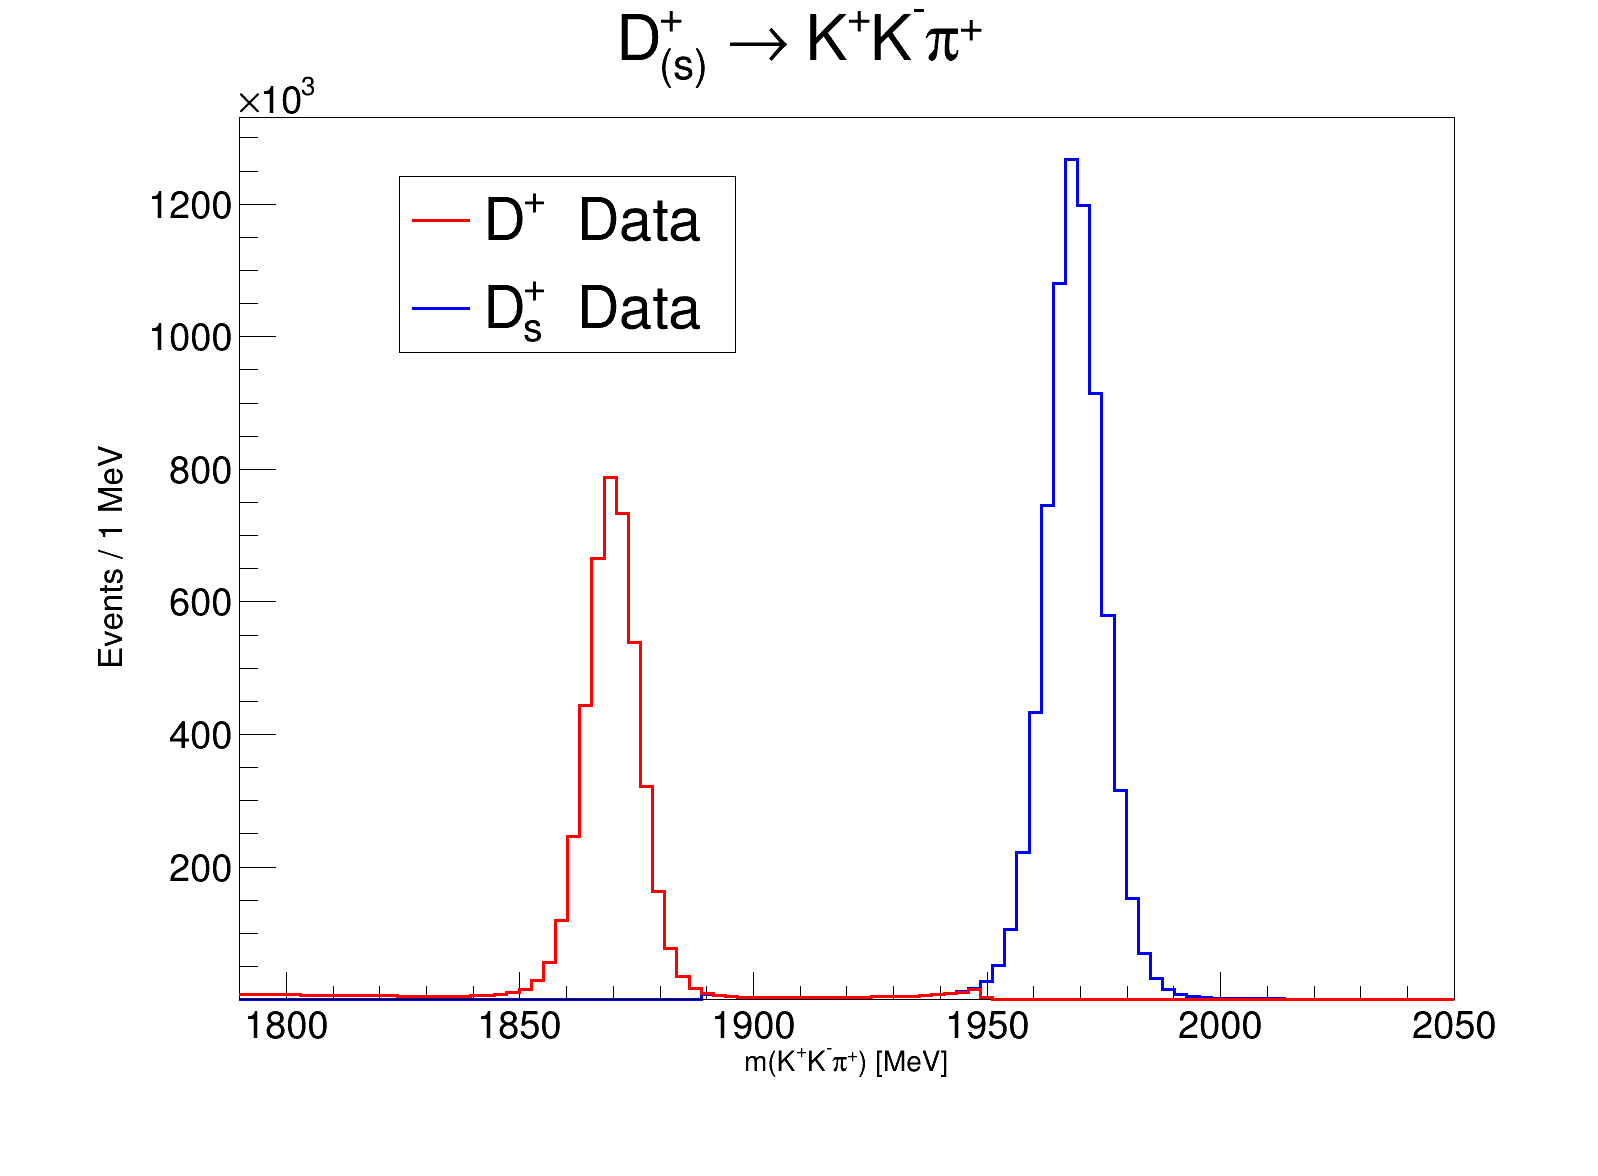
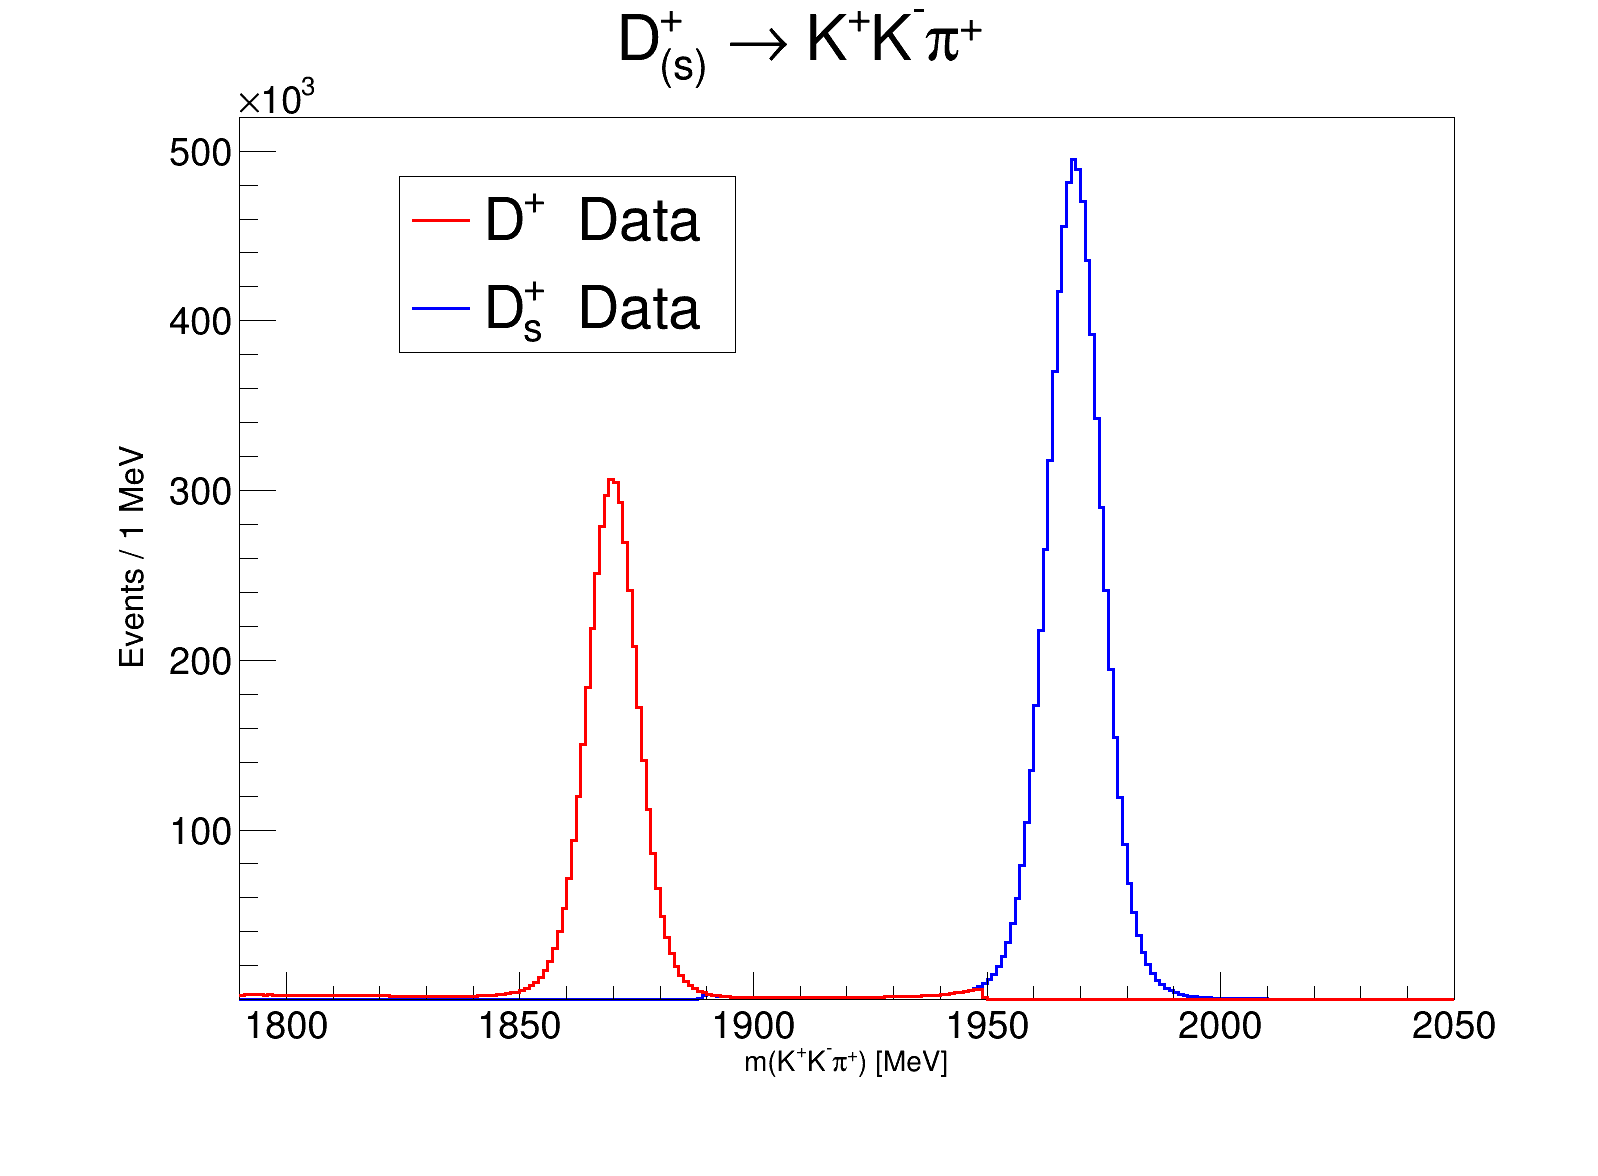
overlap region start

diff --git a/extra_info_rdf.C b/extra_info_rdf.C
@@ -8,11 +8,37 @@ using namespace ROOT;
 
 EnableImplicitMT(); //run in parallel!
 
+const double phi_pm = 10;//12 for regular cut
+const double phiupperbound = (1019.455+phi_pm)*(1019.455+phi_pm)/1000000; 
+const double philowerbound = (1019.455-phi_pm)*(1019.455-phi_pm)/1000000; 
+
+const int binmin = 1790;//1790 absolute minimum for dp
+const int binmax = 2050;//max value for dsp is 2050
+const int nbins = binmax - binmin;
+
+auto inv_m_func = [](double px1, double py1, double pz1, double pe1, double px2, double py2, double pz2, double pe2) {return TLorentzVector(TLorentzVector(px1, py1, pz1, pe1)+TLorentzVector(px2, py2, pz2, pe2)).Mag2()/1000000 ;};
+auto prob_func = [](double prob1, double prob2) {return TMath::Log(prob1) - TMath::Log(prob2) ;};
+auto probNNx_func = [](double prob1, double prob2, double prob3) {return prob1*prob2*prob3 ;};
+
+auto cut_ipchi2 = [](double x) {return x < 4 ;};
+auto cut_fdchi2 = [](double x) {return x > 225 ;};
+auto cut_endvertexchi2 = [](double x) {return x < 9 ;};
+auto cut_phi = [&phiupperbound, &philowerbound](double x) {return x > philowerbound && x < phiupperbound ;};
+auto cut_prob_5 = [] (double x) {return x>5 ;};
+auto cut_prob_0 = [] (double x) {return x>0 ;};
+auto cut_probnnx = [] (double x) {return x >= 0.70 ;};
+auto cut_pK_ambiguity = [] (double x) {return x> 10000 ;};
+auto cut_dira = [] (double x) {return x>0.99999 ;};
+auto cut_tau = [] (double x) {return x > 0.0000000001 ;};
+
+
+
+
+
 
 //create rdataframe for dp, dsp magdown data
 
-//RDataFrame dpdf("D2KKpi/DecayTree", {"/share/lazy/D2KKpi/dpmagup_dec20.root","/share/lazy/D2KKpi/dpmagdown_dec20.root"});
-RDataFrame dpdf("Dsp2KKpi/DecayTree", "/share/lazy/D2KKpi/dspmagdown_dec20.root");
+RDataFrame dpdf("D2KKpi/DecayTree", {"/share/lazy/D2KKpi/dpmagup_dec20.root","/share/lazy/D2KKpi/dpmagdown_dec20.root"});
 RDataFrame dspdf("Dsp2KKpi/DecayTree", {"/share/lazy/D2KKpi/dspmagup_dec20.root","/share/lazy/D2KKpi/dspmagdown_dec20.root"});
 
 
@@ -23,12 +49,50 @@ RDataFrame dspdf("Dsp2KKpi/DecayTree", "/share/lazy/D2KKpi/dsp_data_dec20/dspmag
 */
 
 
+//cut the data
+
+auto dp_cut = dpdf.Filter(cut_ipchi2, {"Dplus_IPCHI2_OWNPV"})
+				   .Filter(cut_fdchi2, {"Dplus_FDCHI2_OWNPV"})
+				   .Filter(cut_endvertexchi2, {"Dplus_ENDVERTEX_CHI2"})
+				   .Filter(cut_pK_ambiguity, {"Kplus_P"})
+				   .Filter(cut_pK_ambiguity, {"Kminus_P"})
+				   .Filter(cut_dira, {"Dplus_DIRA_OWNPV"})
+				   .Define("kminuslog", prob_func, {"Kminus_MC15TuneV1_ProbNNk", "Kminus_MC15TuneV1_ProbNNpi"})
+				   .Define("kpluslog", prob_func, {"Kplus_MC15TuneV1_ProbNNk", "Kplus_MC15TuneV1_ProbNNpi"})
+				   .Define("pipluslog", prob_func, {"Piplus_MC15TuneV1_ProbNNpi", "Piplus_MC15TuneV1_ProbNNk"})
+				   .Filter(cut_prob_5, {"kminuslog"})
+				   .Filter(cut_prob_5, {"kpluslog"})
+				   .Filter(cut_prob_0, {"pipluslog"})
+				   .Define("ProbNNx", probNNx_func, {"Kminus_MC15TuneV1_ProbNNk", "Kplus_MC15TuneV1_ProbNNk", "Piplus_MC15TuneV1_ProbNNpi"})
+				   .Filter(cut_probnnx, {"ProbNNx"})
+				   .Define("mkpkm", inv_m_func, {"Kplus_PX", "Kplus_PY", "Kplus_PZ", "Kplus_PE", "Kminus_PX", "Kminus_PY", "Kminus_PZ", "Kminus_PE"})
+				   .Filter(cut_phi, {"mkpkm"});
+auto dsp_cut = dspdf.Filter(cut_ipchi2, {"Dsplus_IPCHI2_OWNPV"})
+				   .Filter(cut_fdchi2, {"Dsplus_FDCHI2_OWNPV"})
+				   .Filter(cut_endvertexchi2, {"Dsplus_ENDVERTEX_CHI2"})
+				   .Filter(cut_pK_ambiguity, {"Kplus_P"})
+				   .Filter(cut_pK_ambiguity, {"Kminus_P"})
+				   .Filter(cut_dira, {"Dsplus_DIRA_OWNPV"})
+				   .Define("kminuslog", prob_func, {"Kminus_MC15TuneV1_ProbNNk", "Kminus_MC15TuneV1_ProbNNpi"})
+				   .Define("kpluslog", prob_func, {"Kplus_MC15TuneV1_ProbNNk", "Kplus_MC15TuneV1_ProbNNpi"})
+				   .Define("pipluslog", prob_func, {"Piplus_MC15TuneV1_ProbNNpi", "Piplus_MC15TuneV1_ProbNNk"})
+				   .Filter(cut_prob_5, {"kminuslog"})
+				   .Filter(cut_prob_5, {"kpluslog"})
+				   .Filter(cut_prob_0, {"pipluslog"})
+				   .Define("ProbNNx", probNNx_func, {"Kminus_MC15TuneV1_ProbNNk", "Kplus_MC15TuneV1_ProbNNk", "Piplus_MC15TuneV1_ProbNNpi"})
+				   .Filter(cut_probnnx, {"ProbNNx"})
+				   .Define("mkpkm", inv_m_func, {"Kplus_PX", "Kplus_PY", "Kplus_PZ", "Kplus_PE", "Kminus_PX", "Kminus_PY", "Kminus_PZ", "Kminus_PE"})
+				   .Filter(cut_phi, {"mkpkm"});
+
 
 //get and print number of entries
 	
-	auto dpdf_count = dpdf.Count();
+	auto dpdf_count = dp_cut.Count();
 	double dpdfEntries = *dpdf_count;
-	cout << "Raw Entries: " << dpdfEntries << endl;
+	cout << "Dplus Entries: " << dpdfEntries << endl;
+	auto dspdf_count = dsp_cut.Count();
+	double dspdfEntries = *dspdf_count;
+	cout << "Dsplus Entries: " << dspdfEntries << endl;
 	
 
 
@@ -57,8 +121,8 @@ RDataFrame dspdf("Dsp2KKpi/DecayTree", "/share/lazy/D2KKpi/dsp_data_dec20/dspmag
 	*/
 
 
-//information about OdinTCK - I believe the OdinTCK is the 
-
+//information about OdinTCK
+	/*
 	auto odinTCK = dpdf.Fill<unsigned int>(TH1D("odinTCK","D+ odin tck", 1300000, 290300000, 291600000), {"OdinTCK"});
 	int xVals[1300000];
 	int tck[1300000];
@@ -76,6 +140,30 @@ RDataFrame dspdf("Dsp2KKpi/DecayTree", "/share/lazy/D2KKpi/dsp_data_dec20/dspmag
 		}
 	}
 	cout << "Total TCK counted entries: " << temp << endl;
+	*/
+
+
+//information about events per bin in the "overlap region" (1880 - 1960 MeV)
+
+	auto dpmasshist = dp_cut.Fill<double>(TH1D("dpmasshist","d -> kkpi",nbins, binmin, binmax), {"Dplus_MM"});
+	auto dspmasshist = dsp_cut.Fill<double>(TH1D("dspmasshist","ds -> kkpi",nbins, binmin, binmax), {"Dsplus_MM"});
+	int xVals[nbins];
+	int dpVals[nbins];
+	int dspVals[nbins];
+		std::cout << "Events per MeV:" << endl;
+		std::cout << "Bin\tD\tDs" << endl;
+	for (int i=1; i<nbins; i++) {
+		int x = dpmasshist->GetBinCenter(i);
+		int dpm = dpmasshist->GetBinContent(i);
+		int dspm = dspmasshist->GetBinContent(i);
+		xVals[i] = x;
+		dpVals[i] = dpm;
+		dspVals[i] = dspm;
+		std::cout << x << '\t' << dpm << '\t' << dspm << endl;
+	}
+
+
+
 
 
 

diff --git a/dp_dsp_rdf.C b/dp_dsp_rdf.C
@@ -30,9 +30,9 @@ const int cc = 299792458;//speed of light in m/s
 
 const int binmin = 1790;//1790 absolute minimum for dp
 const int binmax = 2050;//max value for dsp is 2050
-const int nbins = 100;
+const int nbins = binmax-binmin;//to get events / MeV, should be 260 bins
 
-
+cout << "there are " << nbins << " bins" << endl;
 
 
 
@@ -98,7 +98,7 @@ auto dsp_cut = dspdf.Filter(cut_ipchi2, {"Dsplus_IPCHI2_OWNPV"})
 
 
 
-//auto blackhist = new TH1D("blackhist", "", 1, binmin, 
+
 
 
 
